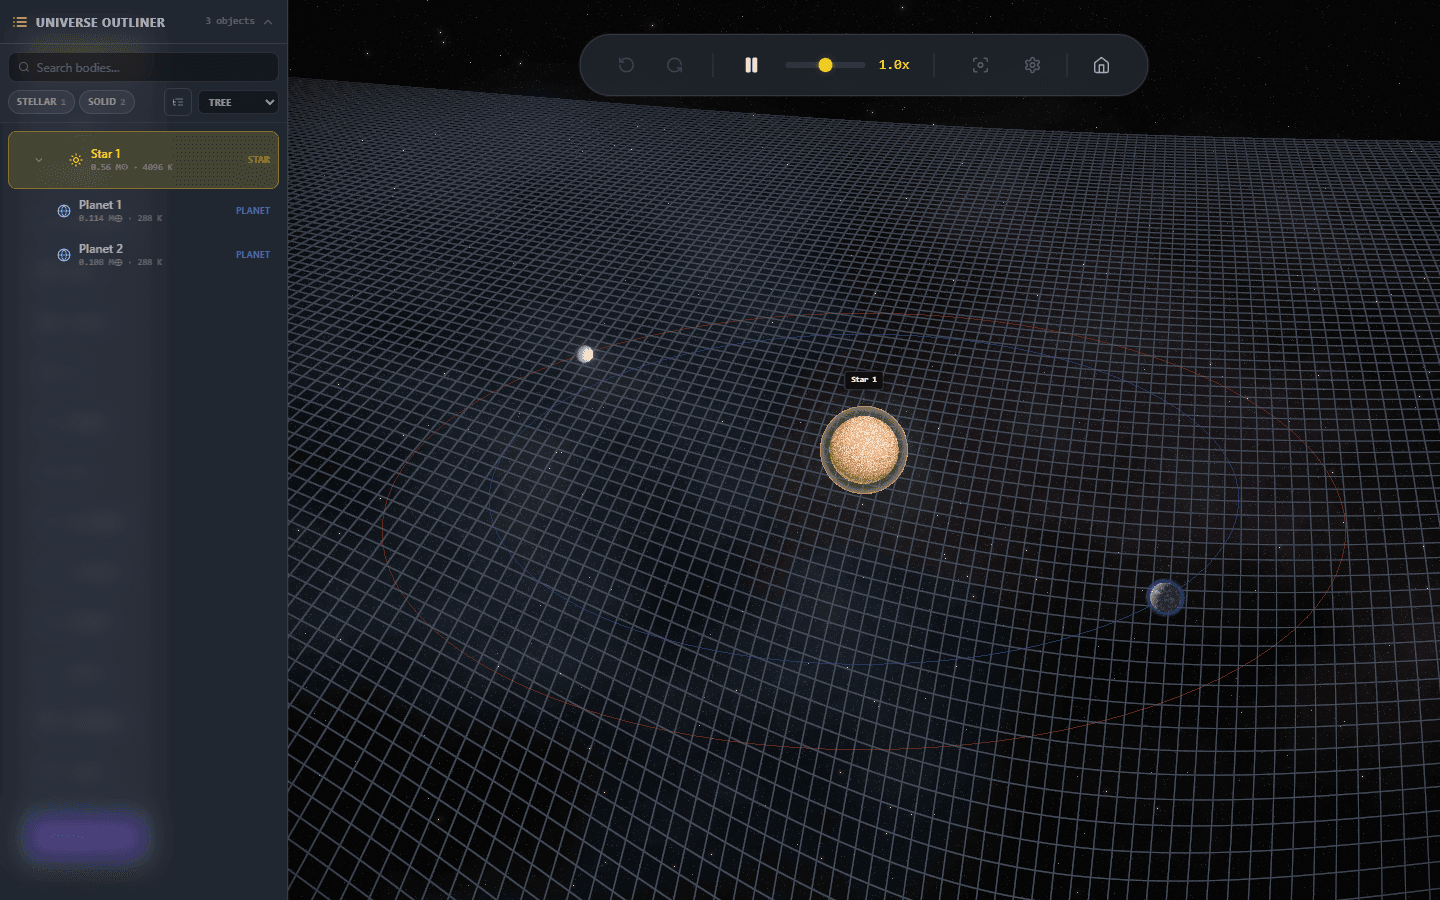
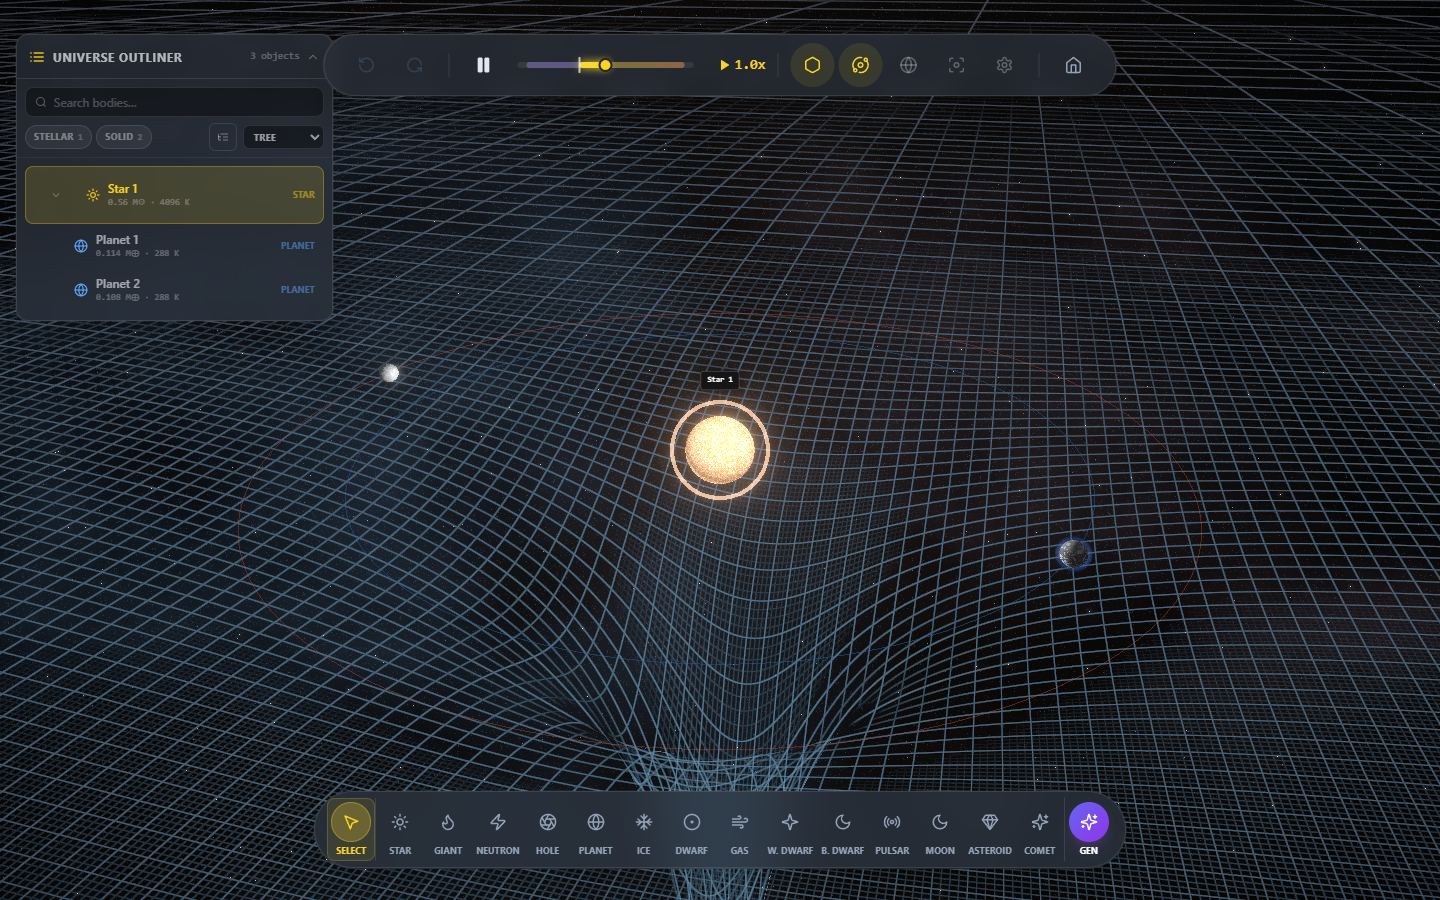
Refresh README screenshots and align captions with the live app.

diff --git a/e2e/screenshots.spec.ts b/e2e/screenshots.spec.ts
@@ -16,6 +16,10 @@ const OUT = 'docs/screenshots';
 const DESKTOP = { width: 1440, height: 900 };
 const PHONE = { width: 390, height: 844 };
 
+/** Body-type tools offered in Beginner vs Advanced (Select + Gen are extra). */
+const BEGINNER_TOOL_COUNT = 7;
+const ADVANCED_TOOL_COUNT = 14;
+
 test.skip(
   !process.env.CAPTURE_SCREENSHOTS,
   'Set CAPTURE_SCREENSHOTS=1 to regenerate the README images.',
@@ -55,6 +59,25 @@ async function bodyIdByName(page: Page, name: string): Promise<string> {
   return id;
 }
 
+/**
+ * Make sure the creation dock is expanded and shows the expected body-type
+ * count so Beginner (7) vs Advanced (14) is visible in the README shots.
+ */
+async function ensureCreationDockVisible(page: Page, expectedToolCount: number): Promise<void> {
+  const toolbar = page.getByTestId('creation-toolbar');
+  await expect(toolbar).toBeVisible();
+
+  const expandBtn = page.getByRole('button', { name: 'Expand creation toolbar' });
+  if (await expandBtn.isVisible()) {
+    await expandBtn.click();
+  }
+  await expect(toolbar).toHaveAttribute('data-expanded', 'true');
+
+  // Select + N body tools + Gen
+  const buttons = toolbar.locator('.creation-toolbar-tools > button');
+  await expect(buttons).toHaveCount(expectedToolCount + 2);
+}
+
 test('main menu', async ({ page }) => {
   await page.setViewportSize(DESKTOP);
   await page.goto('/?e2e=1&onboarding=seen');
@@ -69,6 +92,14 @@ test('universe creator with the real-system presets', async ({ page }) => {
   await page.goto('/?e2e=1&onboarding=seen');
   await page.getByTestId('menu-new-universe').click();
   await expect(page.getByTestId('menu-composer')).toBeVisible();
+
+  // Live origins: Random system + Solar System + TRAPPIST-1 (no Alpha Centauri).
+  await expect(page.getByTestId('menu-preset-procedural')).toBeVisible();
+  await expect(page.getByTestId('menu-preset-procedural')).toContainText('Random system');
+  await expect(page.getByTestId('menu-preset-solar-system')).toBeVisible();
+  await expect(page.getByTestId('menu-preset-trappist-1')).toBeVisible();
+  await expect(page.getByTestId('menu-preset-alpha-centauri')).toHaveCount(0);
+
   await page.waitForTimeout(1200);
   await page.screenshot({ path: `${OUT}/universe-creator.png` });
 });
@@ -98,13 +129,16 @@ test('beginner and advanced creation docks', async ({ page }) => {
   await page.getByTestId('open-settings').click();
   await page.getByTestId('ui-mode-beginner').click();
   await page.getByTestId('settings-close').click();
-  await page.waitForTimeout(1500);
+  await ensureCreationDockVisible(page, BEGINNER_TOOL_COUNT);
+  // Extra settle so exaggerated beginner wells read clearly in the frame.
+  await page.waitForTimeout(2000);
   await page.screenshot({ path: `${OUT}/beginner-mode.png` });
 
   await page.getByTestId('open-settings').click();
   await page.getByTestId('ui-mode-advanced').click();
   await page.getByTestId('settings-close').click();
-  await page.waitForTimeout(1500);
+  await ensureCreationDockVisible(page, ADVANCED_TOOL_COUNT);
+  await page.waitForTimeout(2000);
   await page.screenshot({ path: `${OUT}/advanced-mode.png` });
 });
 
@@ -114,24 +148,30 @@ test('black hole created with the slingshot gesture', async ({ page }) => {
   await waitForSimulationReady(page);
   await settle(page, 1500);
 
-  // The creation dock is centred in the unobstructed canvas between the rails.
-  await page.getByRole('button', { name: 'Hole' }).click();
+  // Clear the left rail and freeze time so the placement ray hits empty space.
+  await page.evaluate(() => {
+    window.__AETHER_TEST__!.setPaused(true);
+    (window as any).__AETHER_VISUAL_TEST__.getStore().setOutlinerOpen(false);
+  });
 
-  // Press to place, drag to aim, release to launch.
-  const canvas = page.locator('.canvas-viewport');
+  await page.getByRole('button', { name: 'Hole' }).click();
+  await expect(page.getByText(/BLACK HOLE/i)).toBeVisible();
+
+  // Place off-centre — the star sits near the middle of the minimal fixture.
+  const canvas = page.locator('[data-testid="sim-canvas"] canvas');
   const box = (await canvas.boundingBox())!;
-  const cx = box.x + box.width * 0.42;
-  const cy = box.y + box.height * 0.5;
+  const cx = box.x + box.width * 0.65;
+  const cy = box.y + box.height * 0.4;
   await page.mouse.move(cx, cy);
   await page.mouse.down();
-  await page.mouse.move(cx + 90, cy + 40, { steps: 12 });
+  await page.mouse.move(cx + 120, cy + 55, { steps: 16 });
   await page.mouse.up();
 
   await expect
-    .poll(() => page.evaluate(() => window.__AETHER_TEST__!.getStore().bodyCount))
+    .poll(() => page.evaluate(() => window.__AETHER_TEST__!.getStore().bodyCount), { timeout: 10_000 })
     .toBeGreaterThan(3);
 
-  await settle(page, 2500);
+  await settle(page, 3000);
   await page.screenshot({ path: `${OUT}/black-hole.png` });
 });
 

diff --git a/README.md b/README.md
@@ -27,7 +27,7 @@ The simulation is the point. Every quantity the app shows you — density, surfa
 
 Everything runs locally. The production app has no accounts, analytics, ads, or remote crash reporting. The web version downloads bundled assets from its hosting origin; Android packages those assets locally. External links open only when selected. Your universes live in your browser's storage or on your device.
 
-![The Solar System preset with both desktop rails](docs/screenshots/solar-system.png)
+![The Solar System preset with the desktop outliner](docs/screenshots/solar-system.png)
 
 ### Core capabilities
 
@@ -122,11 +122,11 @@ The Inspector separates **primaries** (the degrees of freedom you set) from **de
 |---|---|---|
 | **The Solar System** | Sun, 8 planets, Pluto, 11 major moons | NASA/JPL planetary fact sheets, J2000 elements |
 | **TRAPPIST-1** | Ultracool dwarf plus seven terrestrial planets | Agol et al. 2021 |
-| **Procedural frontier** | A generated star and planetary family | — |
+| **Random system** | A generated star and planetary family | — |
 
 The Inspector derives orbital periods from instantaneous two-body elements; numerical orbit tests independently check period consistency. Analytic moon rails use prescribed Kepler elements and exert no gravitational force.
 
-![The universe creator with all three origins](docs/screenshots/universe-creator.png)
+![The universe creator with Random system, Solar System, and TRAPPIST-1](docs/screenshots/universe-creator.png)
 
 ---
 
@@ -143,8 +143,8 @@ The mode switch changes **presentation and pacing only**. It never changes the p
 | **Inspector** | Advanced-audience fields hidden; Composition and Dynamics sections collapsed out | Every section |
 
 <table>
-<tr><td width="50%"><img src="docs/screenshots/beginner-mode.png" alt="Beginner mode"><br><em>Beginner: inflated bodies, exaggerated wells</em></td>
-<td width="50%"><img src="docs/screenshots/advanced-mode.png" alt="Advanced mode"><br><em>Advanced: true scale, true-ratio potential, extra outliner controls</em></td></tr>
+<tr><td width="50%"><img src="docs/screenshots/beginner-mode.png" alt="Beginner mode creation dock"><br><em>Beginner: 7 creation tools, inflated bodies, exaggerated wells</em></td>
+<td width="50%"><img src="docs/screenshots/advanced-mode.png" alt="Advanced mode creation dock"><br><em>Advanced: all 14 creation tools, true scale, true-ratio potential</em></td></tr>
 </table>
 
 Existing bodies are never removed by a mode change — a pulsar you made in Advanced mode keeps working, keeps its Inspector entry, and stays saveable in Beginner mode. The preference is stored globally and seeded from whether you have finished the tutorial.
